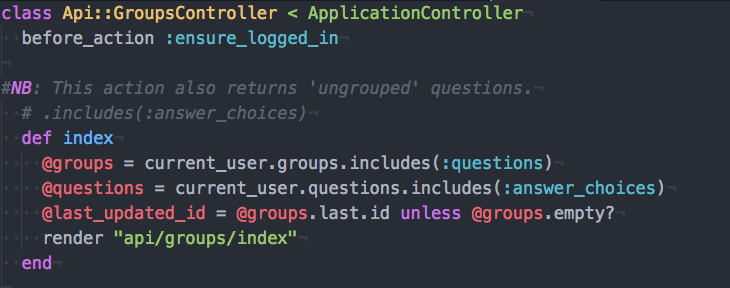
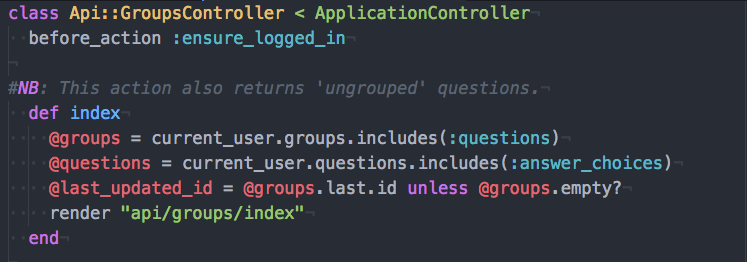
readme

Changed region(s): [[0.0, 0.2748, 0.9342, 0.855], [0.0, 0.0, 0.7233, 0.1832], [0.0301, 0.8855, 0.0904, 0.9466]]

diff --git a/app/controllers/api/groups_controller.rb b/app/controllers/api/groups_controller.rb
@@ -2,7 +2,6 @@ class Api::GroupsController < ApplicationController
   before_action :ensure_logged_in
 
 #NB: This action also returns 'ungrouped' questions.
-  # .includes(:answer_choices)
   def index
     @groups = current_user.groups.includes(:questions)
     @questions = current_user.questions.includes(:answer_choices)

diff --git a/README.md b/README.md
@@ -24,12 +24,12 @@
 
 ## Technical Highlights
 
-![Live-Update-Gif](public/code-screenshots/poll-paradise-live-update.gif)
 
 ### WebSockets and Pusher API for live-update polling
 
   Poll-Paradise uses the Pusher API, and React/Redux Router to dynamically subscribe to the appropriate web-socket. Implementation is scalable, as each time web-socket is triggered, the updated answer choice object is delivered to the frontend. This destroys the need to make another request to the server as responses shuffles in.
 
+  ![Live-Update-Gif](public/code-screenshots/poll-paradise-live-update.gif)
 
   /app/controllers/api/answer_choices_controller.rb
   ![Web-Socket-Backend](public/code-screenshots/web-socket-backend.png)
